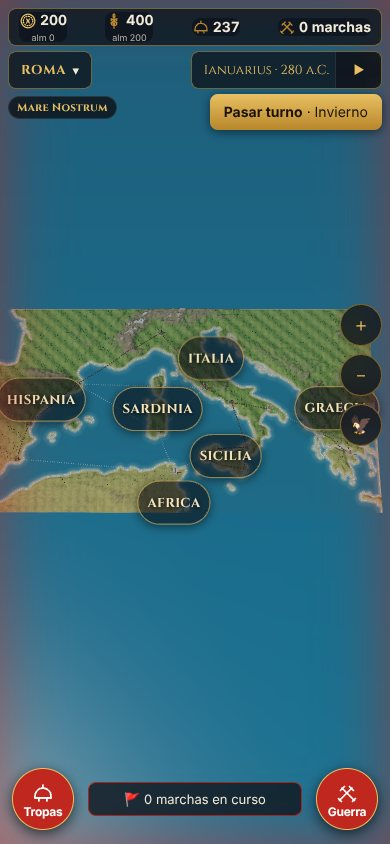
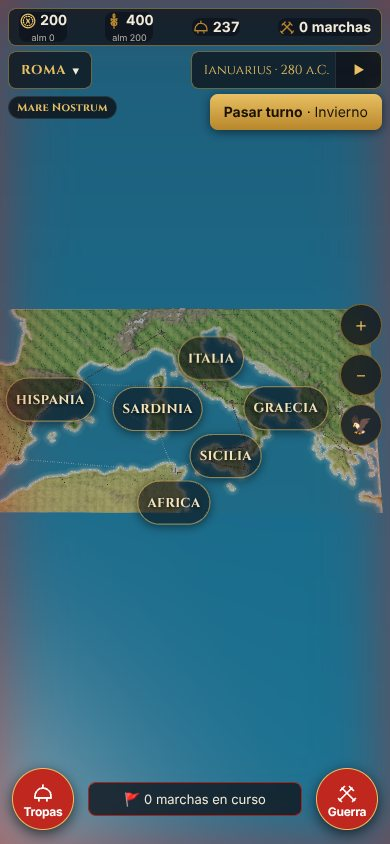
C6: nombres de zona dentro de la pantalla; parte, tablero, bitácora y capturas
Claude-Session: https://claude.ai/code/session_01QiKC369iQW21XMsXa35BXX

Changed region(s): [[0.6154, 0.4313, 0.9846, 0.5237], [0.0, 0.4313, 0.2462, 0.5237]]

diff --git a/js/gfx/map3d.js b/js/gfx/map3d.js
@@ -334,6 +334,9 @@ export class MapView3D {
     // los nombres no se pisan: si dos se solapan en pantalla, el de abajo baja lo justo
     const vis = Object.values(st.zEls).filter(e => e.style.display !== 'none').map(e => ({ e: e, r: e.getBoundingClientRect() })).sort((p, q) => p.r.top - q.r.top), hechos = [];
     for (const o of vis) { let dy = 0; for (const q of hechos) if (o.r.left < q.right && o.r.right > q.left && o.r.top + dy < q.bottom && o.r.bottom + dy > q.top) dy = q.bottom - o.r.top + 3; if (dy) o.e.style.transform += ' translateY(' + dy.toFixed(0) + 'px)'; hechos.push({ left: o.r.left, right: o.r.right, top: o.r.top + dy, bottom: o.r.bottom + dy }); }
+    // y no se salen por los lados ni quedan bajo los botones de zoom de la derecha
+    const caja = this.labels.getBoundingClientRect(), izq = caja.left + 6, der = caja.right - 62;
+    for (const o of vis) { const r = o.e.getBoundingClientRect(); let dx = 0; if (r.left < izq) dx = izq - r.left; else if (r.right > der) dx = der - r.right; if (dx) o.e.style.transform += ' translateX(' + dx.toFixed(0) + 'px)'; }
   }
 
   /* Centra y acerca la cámara según la ficha de la región (lon, lat, zoom) */

diff --git a/gobierno/partes/2026-11-12-C6.md b/gobierno/partes/2026-11-12-C6.md
@@ -1,0 +1,17 @@
+# Parte · C6 Mapa por escalones · 2026-11-12
+**Resultado**: hecho (versión mínima de P95).
+**Qué cambia para el jugador**:
+- En el mapa del Mediterráneo, con la cámara lejos, salen seis zonas en latín: Italia, Sicilia, Sardinia, Hispania, Graecia y Africa.
+- Al tocar una, la cámara se acerca a sus ciudades en 0,6 s y arriba sale «Mare Nostrum › Italia» con «← volver», que devuelve el encuadre exacto.
+- El pellizco sigue libre: si te alejas a mano, vuelves a Mare Nostrum.
+- En la campaña «Región de Italia» no sale nada de esto.
+**Archivos**: `js/data.js` (`D.ZONAS`, `D.zonaDe`), `js/registro.js` (6 fichas `zona`, licencia de juego en los límites), `js/gfx/map3d.js` (escalón, pila, animación, migas, nombres que no se pisan ni se salen), `css/style.css`, `sw.js` (v51), `test/sim.test.js`, `gobierno/jueces.mjs` (paso nuevo), `gobierno/maquetas/C6-capturas.mjs`. No toca `ui.js`, por CN4.
+**Cambio no pedido**: la distancia máxima de cámara pasa de 150 a 330 (con 150 el Mediterráneo no cabía en vertical) y la bruma escala con la distancia; hasta 150 se ve igual que antes.
+**Jueces**: APTO 19/19 (con el paso «Mapa por escalones»).
+**Cuentas**: presupuesto 0,9 M · gastado 5,64 M (+526 %, ALERTA) · constructor Sonnet 0,70 M (lo previsto) · director 4,93 M. El exceso es del director: una conversación de horas, con vídeo, plan de 44 tareas y cuadro, en la que cada paso relee todo. Próxima vez: una tarea, una sesión nueva y corta, como manda `plan-socialista`.
+**Queda pendiente**:
+- Mare Nostrum ocupa solo la franja central de la pantalla vertical. Graecia queda algo al oeste de Grecia para no tapar el zoom.
+- Al entrar en Italia aún se ve Sicilia.
+- No hay bordes de zona dibujados, ni la bajada a la ciudad 3D (C1).
+- Sin medir en móvil real.
+**Decide el usuario**: nada.

diff --git a/gobierno/TABLERO.md b/gobierno/TABLERO.md
@@ -170,7 +170,7 @@ Una tarea por sesión; CN1 a CN4 tocan `js/game.js` y `js/data.js`, así que van
 - ⬜ C3 Diplomacia sencilla (alianzas, tributos) e IA enemiga que también construye.
 - ⬜ C4 **Ríos, lagos y relieve variado en el mapa** (P92, ≈1 M): Po, Tíber, Ebro, Ródano, delta del Nilo y Danubio como cintas de agua sobre el relieve real; lagos; más tipos de terreno (llanura, estepa, desierto del Atlas). Después de J4 (si no, se regenera el marco dos veces). Alturas: `assets/mapa/generar-alturas.py`.
 - ⬜ C5 **Botón de mapamundi** (P94, aprobada 12/11, ≈0,6 M): un botón más en el mapa para ver el mundo entero de un vistazo, con las ciudades y los frentes. Después de J4 (el mapa grande por regiones). Toca `js/gfx/map3d.js` y la parte del mapa de `js/ui.js`.
-- ⬜ C6 **Mapa por escalones** (P95, aprobada 12/11; estudio `estudios/R20-niveles-de-mapa.md`): Mare Nostrum › región › ciudad. Tocar una región acerca la cámara a sus ciudades; migas arriba con «← volver» al encuadre exacto; el pellizco libre se queda. Versión mínima, sin bordes dibujados. Tras I6.
+- ✅ C6 **Mapa por escalones** (12/11, P95): seis zonas en latín en Mare Nostrum; tocar una acerca la cámara, migas y «← volver» al encuadre exacto. Parte `partes/2026-11-12-C6.md`.
 
 ## Carril H — Historia (ministerio de Adecuación Histórica)
 - ✅ H1 Auditoría histórica cotejada con los textos (11/11/2026): `gobierno/historia/H1-resumen.md`. Los 10 fallos se confirman, con matices.

diff --git a/gobierno/BITACORA.md b/gobierno/BITACORA.md
@@ -122,6 +122,8 @@ Regla: lo nuevo se apunta aquí; cuando el usuario lo aprueba, pasa al tablero. 
 - P96 **Mover un edificio** (propuesta de CN4, 12/11; ≈0,4 M): `G.moverPieza` en `js/game.js` y su botón «Mover» en la ficha del edificio. Hoy no hay forma de moverlo: derribar y volver a colocar borra las mejoras. Toca `game.js` y `ui.js`; iría con la vía Ciudad después de I3b.
 
 
+0. **C6 hecha (12/11)**, en la rama `claude/c6-mapa-escalones` unida a la rama del juego; `main` puesta al día. Siguiente del mapa: J4 (más ciudades), que ya puede usar `D.ZONAS`; C1 (bajar a la ciudad 3D) completa los escalones.
+
 ## Encargo en curso (11/11/2026, noche)
 Rama única: `claude/roman-strategy-mobile-game-bx9oq2` (la que publica el juego). Cinco carriles a la vez, que no se pisan. Director y agentes en **Sonnet** (al usuario le queda poco Fable).
 - **Batallas** (`js/battle.js`, `js/gfx/battle3d.js`, lo de batalla en `js/ui.js`): A5c Arrastre y formaciones → A3 Combate que se ve → A4 Papeles de la infantería → A5b Terreno → A1 Formaciones de verdad → A2 Animaciones por fila → A6 Cámara, sonido y proyectiles → A8b Ajuste fino del ritmo.
